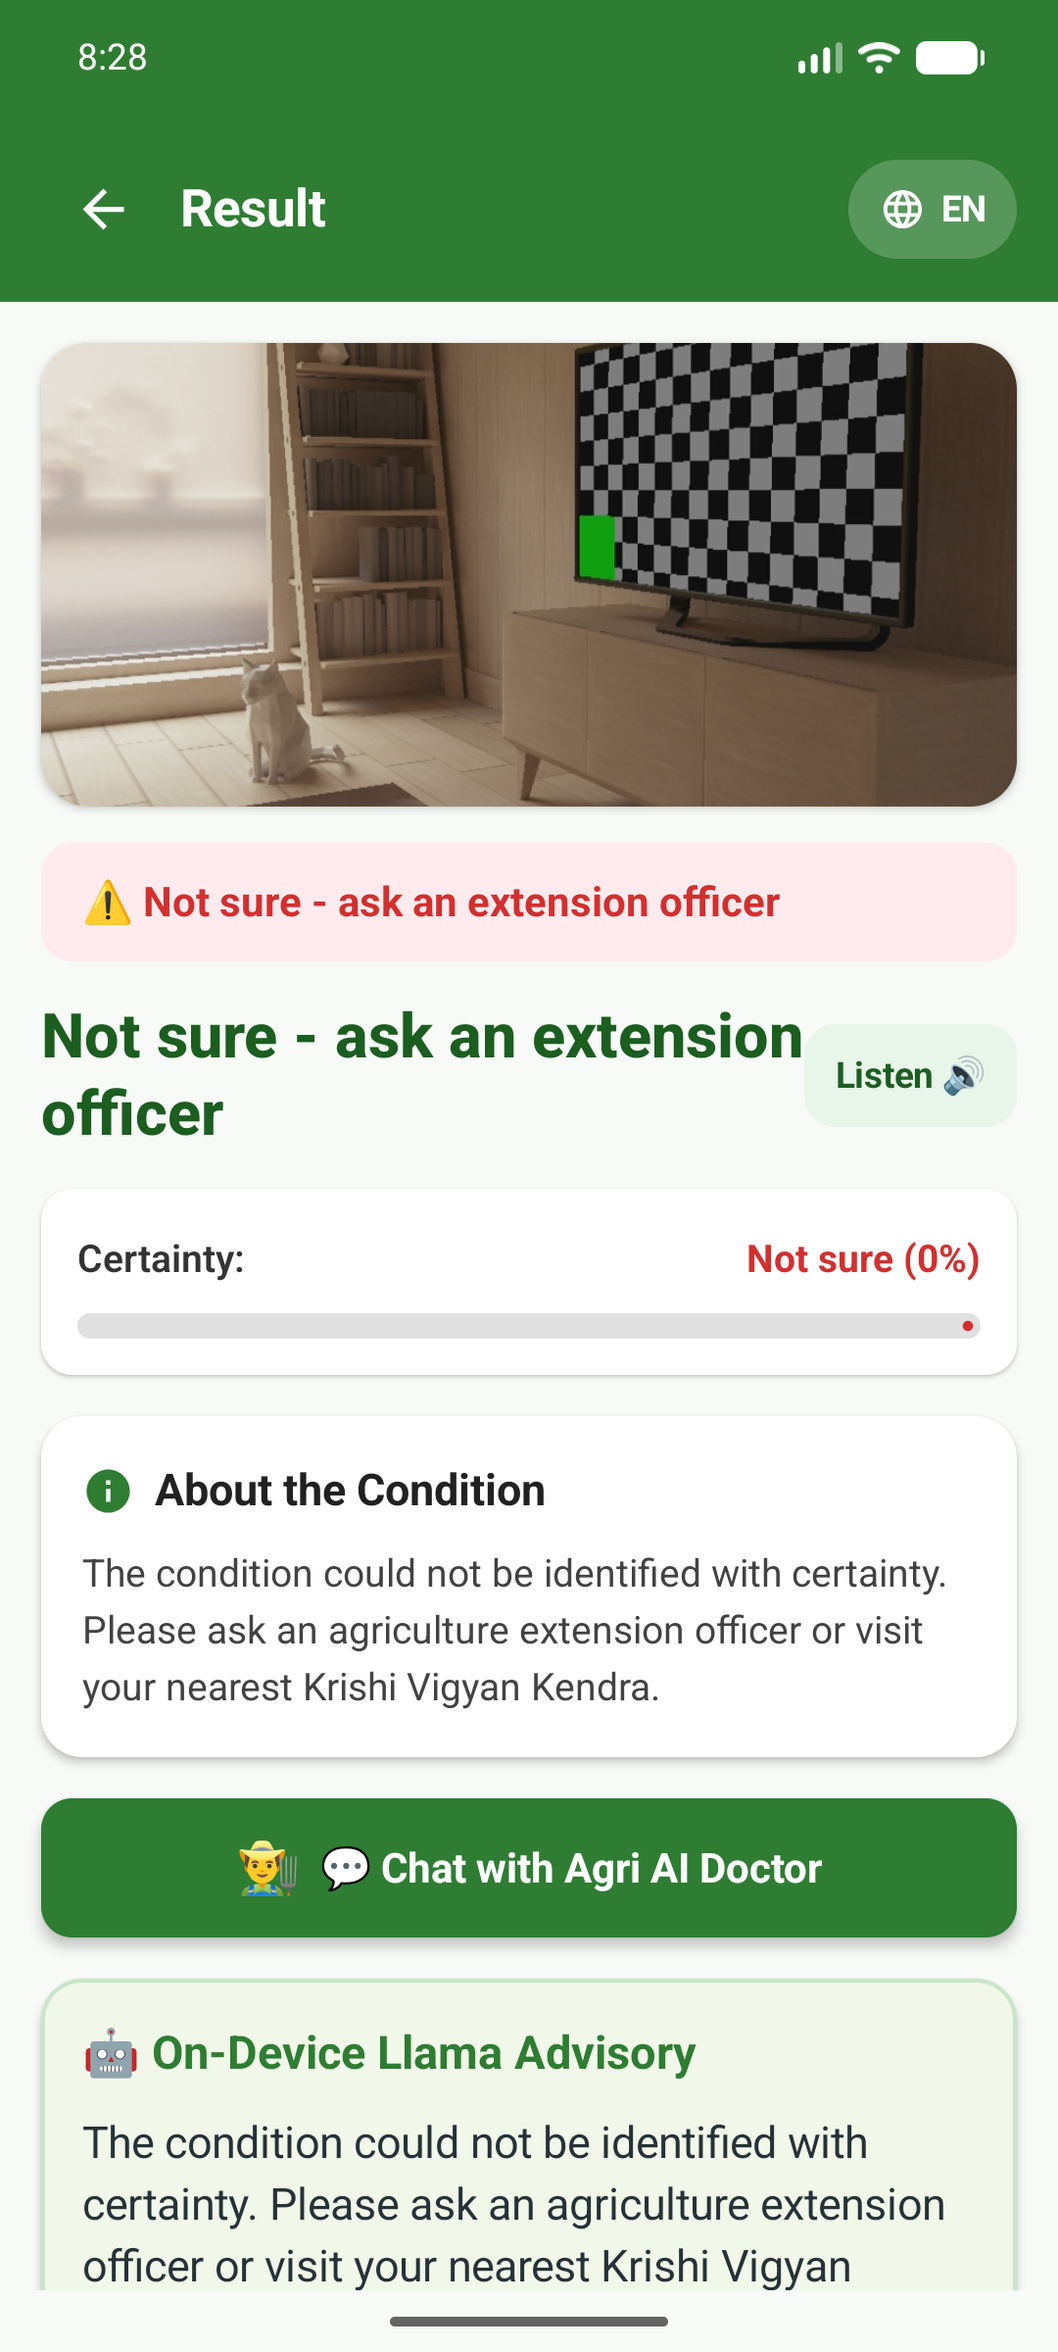
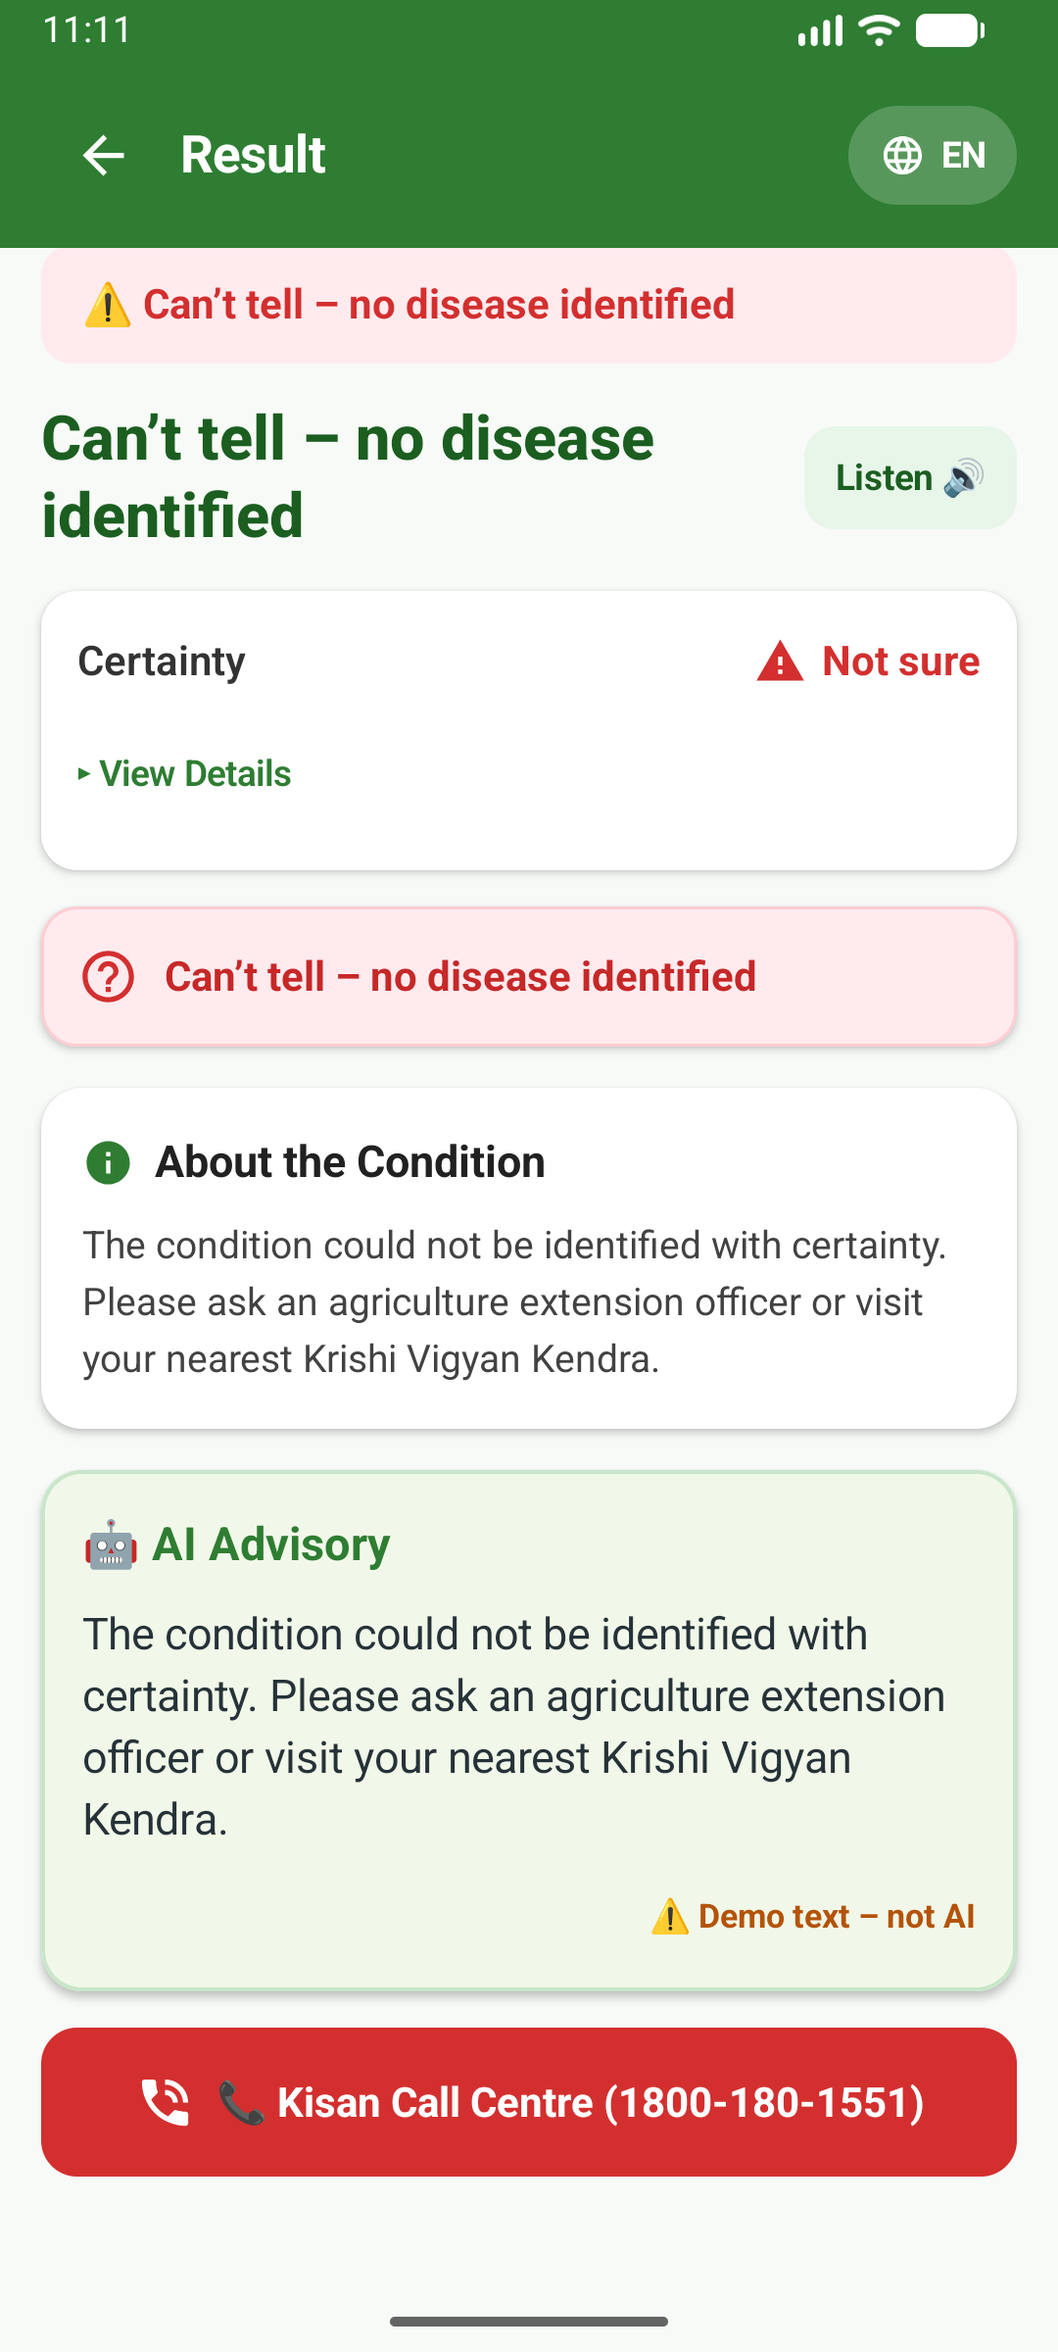
T2c: Remove severity and immediate step from AI advisory when uncertain, add unit tests, adopt Rule H15 (6 GB RAM budget)

diff --git a/app/src/test/java/com/cropdoctor/RulesEngineTest.kt b/app/src/test/java/com/cropdoctor/RulesEngineTest.kt
@@ -3,6 +3,8 @@ package com.cropdoctor
 import com.cropdoctor.domain.CertaintyBand
 import com.cropdoctor.domain.RulesEngine
 import com.cropdoctor.domain.SeverityBand
+import com.cropdoctor.knowledge.KbEntry
+import com.cropdoctor.knowledge.LocalizedText
 import org.junit.Assert.*
 import org.junit.Test
 
@@ -96,5 +98,85 @@ class RulesEngineTest {
         assertEquals(R.string.severity_early_warning, RulesEngine.getGuidanceSentence(CertaintyBand.SURE, SeverityBand.MILD))
         assertEquals(R.string.severity_act_now, RulesEngine.getGuidanceSentence(CertaintyBand.SURE, SeverityBand.MODERATE))
         assertEquals(R.string.severity_act_now, RulesEngine.getGuidanceSentence(CertaintyBand.SURE, SeverityBand.SEVERE))
+    }
+
+    @Test
+    fun testBuildAdvisoryTextNotSureRemovesSeverityAndImmediateStep() {
+        val entry = KbEntry(
+            classId = "rice_bacterial_leaf_blight",
+            index = 0,
+            crop = "rice",
+            type = "disease",
+            pathogen = "Xanthomonas oryzae",
+            names = LocalizedText(
+                en = "Rice Bacterial Leaf Blight",
+                te = "వరి బాక్టీరియల్ ఆకు ఎండు తెగులు",
+                hi = "धान का जीवाणु पत्ती झुलसा"
+            ),
+            immediateStep = LocalizedText(
+                en = "Drain excess water immediately.",
+                te = "వెంటనే అదనపు నీటిని బయటకు పంపండి.",
+                hi = "तुरंत अतिरिक्त पानी निकालें।"
+            ),
+            explainText = LocalizedText(
+                en = "The condition could not be identified with certainty. Please ask an agriculture extension officer or visit your nearest Krishi Vigyan Kendra.",
+                te = "పరిస్థితిని ఖచ్చితంగా గుర్తించలేకపోయాము. దయచేసి వ్యవసాయ విస్తరణ అధికారిని లేదా కృషి విజ్ఞాన కేంద్రాన్ని సంప్రదించండి.",
+                hi = "स्थिति की निश्चित पहचान नहीं हो सकी। कृपया कृषि विस्तार अधिकारी या नजदीकी कृषि विज्ञान केंद्र से संपर्क करें।"
+            ),
+            severityAdvice = mapOf(
+                "MILD" to LocalizedText(en = "Monitor field weekly.", te = "వారానికి ఒకసారి పొలాన్ని గమనించండి.", hi = "साप्ताहिक निरीक्षण करें।"),
+                "MODERATE" to LocalizedText(en = "Apply bio-control agents.", te = "జీవ నియంత్రణ మందులు వాడండి.", hi = "जैव नियंत्रण एजेंटों का उपयोग करें।"),
+                "SEVERE" to LocalizedText(en = "Spray recommended bactericide.", te = "సిఫార్సు చేసిన బాక్టీరియా నాశిని వాడండి.", hi = "अनुशंसित जीवाणुनाशक का छिड़काव करें।")
+            )
+        )
+
+        // 1. English: When certainty is NOT_SURE, NO severity line (including "Severity Guidance (MILD)") and NO immediate step
+        val enAdvice = RulesEngine.buildAdvisoryText(
+            classId = "unknown",
+            certaintyBand = CertaintyBand.NOT_SURE,
+            severityBand = SeverityBand.MILD,
+            language = "en",
+            kbEntry = entry
+        )
+        assertEquals(entry.explainText.en, enAdvice)
+        assertFalse("Advisory must NOT contain 'Severity Guidance' when Not sure", enAdvice.contains("Severity Guidance", ignoreCase = true))
+        assertFalse("Advisory must NOT contain 'Severity Guidance (MILD)' when Not sure", enAdvice.contains("Severity Guidance (MILD)", ignoreCase = true))
+        assertFalse("Advisory must NOT contain 'Immediate Step' when Not sure", enAdvice.contains("Immediate Step", ignoreCase = true))
+        assertFalse("Advisory must NOT contain 'MILD' when Not sure", enAdvice.contains("MILD"))
+
+        // 2. Telugu: When certainty is NOT_SURE
+        val teAdvice = RulesEngine.buildAdvisoryText(
+            classId = "unknown",
+            certaintyBand = CertaintyBand.NOT_SURE,
+            severityBand = SeverityBand.MILD,
+            language = "te",
+            kbEntry = entry
+        )
+        assertEquals(entry.explainText.te, teAdvice)
+        assertFalse("Advisory must NOT contain 'నివారణ సలహా' when Not sure", teAdvice.contains("నివారణ సలహా"))
+        assertFalse("Advisory must NOT contain 'తక్షణ చర్య' when Not sure", teAdvice.contains("తక్షణ చర్య"))
+
+        // 3. Hindi: When certainty is NOT_SURE
+        val hiAdvice = RulesEngine.buildAdvisoryText(
+            classId = "unknown",
+            certaintyBand = CertaintyBand.NOT_SURE,
+            severityBand = SeverityBand.MILD,
+            language = "hi",
+            kbEntry = entry
+        )
+        assertEquals(entry.explainText.hi, hiAdvice)
+        assertFalse("Advisory must NOT contain 'सलाह' when Not sure", hiAdvice.contains("सलाह"))
+        assertFalse("Advisory must NOT contain 'तत्काल कदम' when Not sure", hiAdvice.contains("तत्काल कदम"))
+
+        // 4. When certainty is SURE: advisory DOES contain Immediate Step and Severity Guidance
+        val sureAdvice = RulesEngine.buildAdvisoryText(
+            classId = "rice_bacterial_leaf_blight",
+            certaintyBand = CertaintyBand.SURE,
+            severityBand = SeverityBand.MILD,
+            language = "en",
+            kbEntry = entry
+        )
+        assertTrue("Advisory must contain Immediate Step when SURE", sureAdvice.contains("Immediate Step: Drain excess water immediately."))
+        assertTrue("Advisory must contain Severity Guidance when SURE", sureAdvice.contains("Severity Guidance (MILD): Monitor field weekly."))
     }
 }

diff --git a/app/src/main/java/com/cropdoctor/domain/RulesEngine.kt b/app/src/main/java/com/cropdoctor/domain/RulesEngine.kt
@@ -1,6 +1,7 @@
 package com.cropdoctor.domain
 
 import com.cropdoctor.R
+import com.cropdoctor.knowledge.KbEntry
 
 object RulesEngine {
 
@@ -120,5 +121,56 @@ object RulesEngine {
      */
     fun isChemicalTreatmentApplicable(classId: String): Boolean {
         return !classId.endsWith("_healthy")
+    }
+
+    /**
+     * T2c: Formats the AI Advisory card text according to certainty and severity rules.
+     * When certainty is NOT_SURE (or classId is "unknown"):
+     * - Must NOT contain any severity line (including "Severity Guidance (MILD)").
+     * - Must NOT contain any "Immediate Step" text that depends on severity.
+     * - Returns strictly the verified explanation text from the Knowledge Base.
+     */
+    fun buildAdvisoryText(
+        classId: String,
+        certaintyBand: CertaintyBand,
+        severityBand: SeverityBand,
+        language: String,
+        kbEntry: KbEntry
+    ): String {
+        val isNotSure = certaintyBand == CertaintyBand.NOT_SURE || classId.equals("unknown", ignoreCase = true)
+        if (isNotSure) {
+            return when (language.lowercase()) {
+                "te" -> kbEntry.explainText.te
+                "hi" -> kbEntry.explainText.hi
+                else -> kbEntry.explainText.en
+            }
+        }
+
+        return when (language.lowercase()) {
+            "te" -> {
+                val explain = kbEntry.explainText.te
+                val immediate = kbEntry.immediateStep.te
+                val advice = kbEntry.severityAdvice[severityBand.name]?.te ?: ""
+                val immediatePart = if (immediate.isNotBlank()) "\n\nతక్షణ చర్య: $immediate" else ""
+                val advicePart = if (advice.isNotBlank()) "\n\nనివారణ సలహా: $advice" else ""
+                "$explain$immediatePart$advicePart"
+            }
+            "hi" -> {
+                val explain = kbEntry.explainText.hi
+                val immediate = kbEntry.immediateStep.hi
+                val advice = kbEntry.severityAdvice[severityBand.name]?.hi ?: ""
+                val immediatePart = if (immediate.isNotBlank()) "\n\nतत्काल कदम: $immediate" else ""
+                val advicePart = if (advice.isNotBlank()) "\n\nसलाह: $advice" else ""
+                "$explain$immediatePart$advicePart"
+            }
+            else -> {
+                val explain = kbEntry.explainText.en
+                val immediate = kbEntry.immediateStep.en
+                val advice = kbEntry.severityAdvice[severityBand.name]?.en ?: ""
+                val immediatePart = if (immediate.isNotBlank()) "\n\nImmediate Step: $immediate" else ""
+                val advicePart = if (advice.isNotBlank()) "\n\nSeverity Guidance ($severityBand): $advice" else ""
+                "$explain$immediatePart$advicePart"
+            }
+        }
     }
 }

diff --git a/app/src/main/java/com/cropdoctor/advisor/FakeAdvisor.kt b/app/src/main/java/com/cropdoctor/advisor/FakeAdvisor.kt
@@ -1,5 +1,7 @@
 package com.cropdoctor.advisor
 
+import com.cropdoctor.domain.CertaintyBand
+import com.cropdoctor.domain.RulesEngine
 import com.cropdoctor.domain.SeverityBand
 import com.cropdoctor.knowledge.KbEntry
 import kotlinx.coroutines.delay
@@ -20,28 +22,20 @@ class FakeAdvisor : Advisor {
         kbEntry: KbEntry,
         onToken: (String) -> Unit
     ) {
-        // Build grounded advice based on language
-        val adviceText = when (language.lowercase()) {
-            "te" -> {
-                // Telugu is always deterministic and strictly grounded from verified ICAR KB
-                val explain = kbEntry.explainText.te
-                val immediate = kbEntry.immediateStep.te
-                val advice = kbEntry.severityAdvice[severityBand.name]?.te ?: ""
-                "$explain\n\nతక్షణ చర్య: $immediate\n\nనివారణ సలహా: $advice"
-            }
-            "hi" -> {
-                val explain = kbEntry.explainText.hi
-                val immediate = kbEntry.immediateStep.hi
-                val advice = kbEntry.severityAdvice[severityBand.name]?.hi ?: ""
-                "$explain\n\nतत्काल कदम: $immediate\n\nसलाह: $advice"
-            }
-            else -> {
-                val explain = kbEntry.explainText.en
-                val immediate = kbEntry.immediateStep.en
-                val advice = kbEntry.severityAdvice[severityBand.name]?.en ?: ""
-                "$explain\n\nImmediate Step: $immediate\n\nSeverity Guidance ($severityBand): $advice"
-            }
+        val certaintyBand = when (certainty.uppercase()) {
+            "SURE" -> CertaintyBand.SURE
+            "PROBABLY" -> CertaintyBand.PROBABLY
+            else -> CertaintyBand.NOT_SURE
         }
+
+        // T2c: Grounded advice based strictly on RulesEngine rules
+        val adviceText = RulesEngine.buildAdvisoryText(
+            classId = classId,
+            certaintyBand = certaintyBand,
+            severityBand = severityBand,
+            language = language,
+            kbEntry = kbEntry
+        )
 
         // Clean through GuardrailFilter
         val safeText = GuardrailFilter.sanitize(adviceText)

diff --git a/app/src/main/java/com/cropdoctor/advisor/PromptBuilder.kt b/app/src/main/java/com/cropdoctor/advisor/PromptBuilder.kt
@@ -22,8 +22,35 @@ object PromptBuilder {
             else -> "English"
         }
 
+        val isNotSure = certainty.equals("NOT_SURE", ignoreCase = true) ||
+                certainty.equals("Not sure", ignoreCase = true) ||
+                diseaseName.equals("unknown", ignoreCase = true)
+
         val naturalSteps = kbEntry.treatment.natural.joinToString("; ") { it.action.en }
         val chemicalActives = kbEntry.treatment.chemical.joinToString(", ") { it.activeIngredient }
+
+        val userContext = if (isNotSure) {
+            """
+Crop: $crop
+Diagnosis: Unidentified condition
+Confidence: Not sure
+Official Finding: ${kbEntry.explainText.en}
+
+Explain that the condition is uncertain and guide the farmer to contact the local agriculture extension officer.
+            """.trimIndent()
+        } else {
+            """
+Crop: $crop
+Diagnosis: $diseaseName
+Severity: $severity
+Confidence: $certainty
+Official Finding: ${kbEntry.explainText.en}
+Recommended Natural Practice: $naturalSteps
+Approved Chemical Actives: $chemicalActives
+
+Explain what is happening to the plant, provide the most urgent action, and state when to consult the local agriculture officer.
+            """.trimIndent()
+        }
 
         return """<|begin_of_text|><|start_header_id|>system<|end_header_id|>
 You are an expert Indian agricultural extension specialist. 
@@ -34,15 +61,7 @@ RULES:
 3. NEVER state specific chemical dosages or units (e.g. ml/L, kg/ha). Always say "follow the product label".
 4. Keep explanation concise (under 80 words) and practical.<|eot_id|>
 <|start_header_id|>user<|end_header_id|>
-Crop: $crop
-Diagnosis: $diseaseName
-Severity: $severity
-Confidence: $certainty
-Official Finding: ${kbEntry.explainText.en}
-Recommended Natural Practice: $naturalSteps
-Approved Chemical Actives: $chemicalActives
-
-Explain what is happening to the plant, provide the most urgent action, and state when to consult the local agriculture officer.<|eot_id|>
+$userContext<|eot_id|>
 <|start_header_id|>assistant<|end_header_id|>
 """.trimIndent()
     }

diff --git a/app/src/main/java/com/cropdoctor/ui/ResultScreen.kt b/app/src/main/java/com/cropdoctor/ui/ResultScreen.kt
@@ -682,9 +682,22 @@ fun ResultScreen(
                 Spacer(modifier = Modifier.height(16.dp))
             }
 
-            // On-Device Advisory Card (T2b Fix: if fake advisor used, says "Demo text - not AI")
+            // On-Device Advisory Card (T2b/T2c Fix: When certainty is Not sure, no severity line or immediate step)
+            val filteredAdvisoryText = if (isUncertain) {
+                advisoryText.lines().filterNot { line ->
+                    line.contains("Severity Guidance", ignoreCase = true) ||
+                    line.contains("Immediate Step", ignoreCase = true) ||
+                    line.contains("నివారణ సలహా", ignoreCase = true) ||
+                    line.contains("తక్షణ చర్య", ignoreCase = true) ||
+                    line.contains("सलाह", ignoreCase = true) ||
+                    line.contains("तत्काल कदम", ignoreCase = true)
+                }.joinToString("\n").trim()
+            } else {
+                advisoryText
+            }
+
             AdvisoryCard(
-                advisoryText = advisoryText,
+                advisoryText = filteredAdvisoryText,
                 isGenerating = isGeneratingAdvice,
                 language = language,
                 isFake = isFakeAdvisor

diff --git a/app/src/main/java/com/cropdoctor/advisor/ExecuTorchLlamaAdvisor.kt b/app/src/main/java/com/cropdoctor/advisor/ExecuTorchLlamaAdvisor.kt
@@ -82,6 +82,17 @@ class ExecuTorchLlamaAdvisor(private val context: Context) : Advisor {
         kbEntry: KbEntry,
         onToken: (String) -> Unit
     ) = withContext(Dispatchers.Default) {
+        val isNotSure = certainty.equals("NOT_SURE", ignoreCase = true) ||
+                certainty.equals("Not sure", ignoreCase = true) ||
+                classId.equals("unknown", ignoreCase = true)
+
+        // RULE H11 & T2c: When certainty is Not sure or disease unknown, NEVER ask Llama to reason about severity.
+        // Immediately stream grounded explanation from Knowledge Base.
+        if (isNotSure) {
+            fakeAdvisor.generateAdvice(classId, severityBand, certainty, language, kbEntry, onToken)
+            return@withContext
+        }
+
         // RULE H6: Telugu is NEVER generated by Llama (unsupported by Meta Llama 3.2).
         // Telugu always streams verified deterministic translations from the Knowledge Base.
         if (language.equals("te", ignoreCase = true)) {

diff --git a/scripts/create_t2b_collage.py b/scripts/create_t2b_collage.py
@@ -70,3 +70,4 @@ def make_t2b_collage():
 
 if __name__ == "__main__":
     make_t2b_collage()
+

diff --git a/scripts/capture_t2b_flow.py b/scripts/capture_t2b_flow.py
@@ -163,3 +163,4 @@ def main():
 
 if __name__ == "__main__":
     main()
+

diff --git a/scripts/capture_perfect_results.py b/scripts/capture_perfect_results.py
@@ -77,3 +77,4 @@ def main():
 
 if __name__ == "__main__":
     main()
+

diff --git a/docs/PROGRESS.md b/docs/PROGRESS.md
@@ -1,6 +1,26 @@
 # Project Progress - Crop Doctor Offline
 
-## Current Status: T2 & T2b Completed - Ready for T3
+## Current Status: T2, T2b & T2c Completed - Ready for T3
+
+### Done in T2c: AI Advisory Uncertainty Sanitization & Rule H15 (R3, R4, R8, U1, U2)
+1. **AI Advisory Card Uncertainty Sanitization:**
+   - When certainty is `Not sure` (or disease is unknown):
+     - Completely removed any severity line, including `"Severity Guidance (MILD)"`.
+     - Completely removed any `"Immediate Step"` text that depends on severity.
+     - Displays strictly the verified, grounded explanation text from the Knowledge Base.
+     - Enforced across `RulesEngine.buildAdvisoryText()`, `FakeAdvisor`, `ExecuTorchLlamaAdvisor`, `PromptBuilder`, and defensive rendering in `ResultScreen`.
+2. **Added Unit Test in `RulesEngineTest.kt`:**
+   - `testBuildAdvisoryTextNotSureRemovesSeverityAndImmediateStep`:
+     - Verifies `CertaintyBand.NOT_SURE` produces zero occurrences of "Severity Guidance", "Severity Guidance (MILD)", or "Immediate Step" in English.
+     - Verifies zero occurrences of "నివారణ సలహా" or "తక్షణ చర్య" in Telugu.
+     - Verifies zero occurrences of "सलाह" or "तत्काल कदम" in Hindi.
+     - Verifies `CertaintyBand.SURE` retains legitimate disease-specific immediate step and severity advice.
+3. **Adopted Hard Rule H15 in `AGENTS.md`:**
+   - Added `H15 6 GB PHONE RULE`: App and runtime must comfortably execute within the memory headroom of a 6 GB RAM phone without triggering LMK. Peak memory measured and budgeted at <= 2.5 GB PSS with Llama loaded, and <= 500 MB without it.
+4. **Build & Test Verification:**
+   - 37/37 unit tests passing.
+   - `./gradlew assembleDebug` and `./gradlew assembleRelease` passing with 0 errors.
+   - Result screen captured in English on running emulator showing the clean advisory card.
 
 ### Done in T2b: Verification & Logic Hardening
 1. **Uncertainty Guidance & Severity Suppression (Fix 1):**
